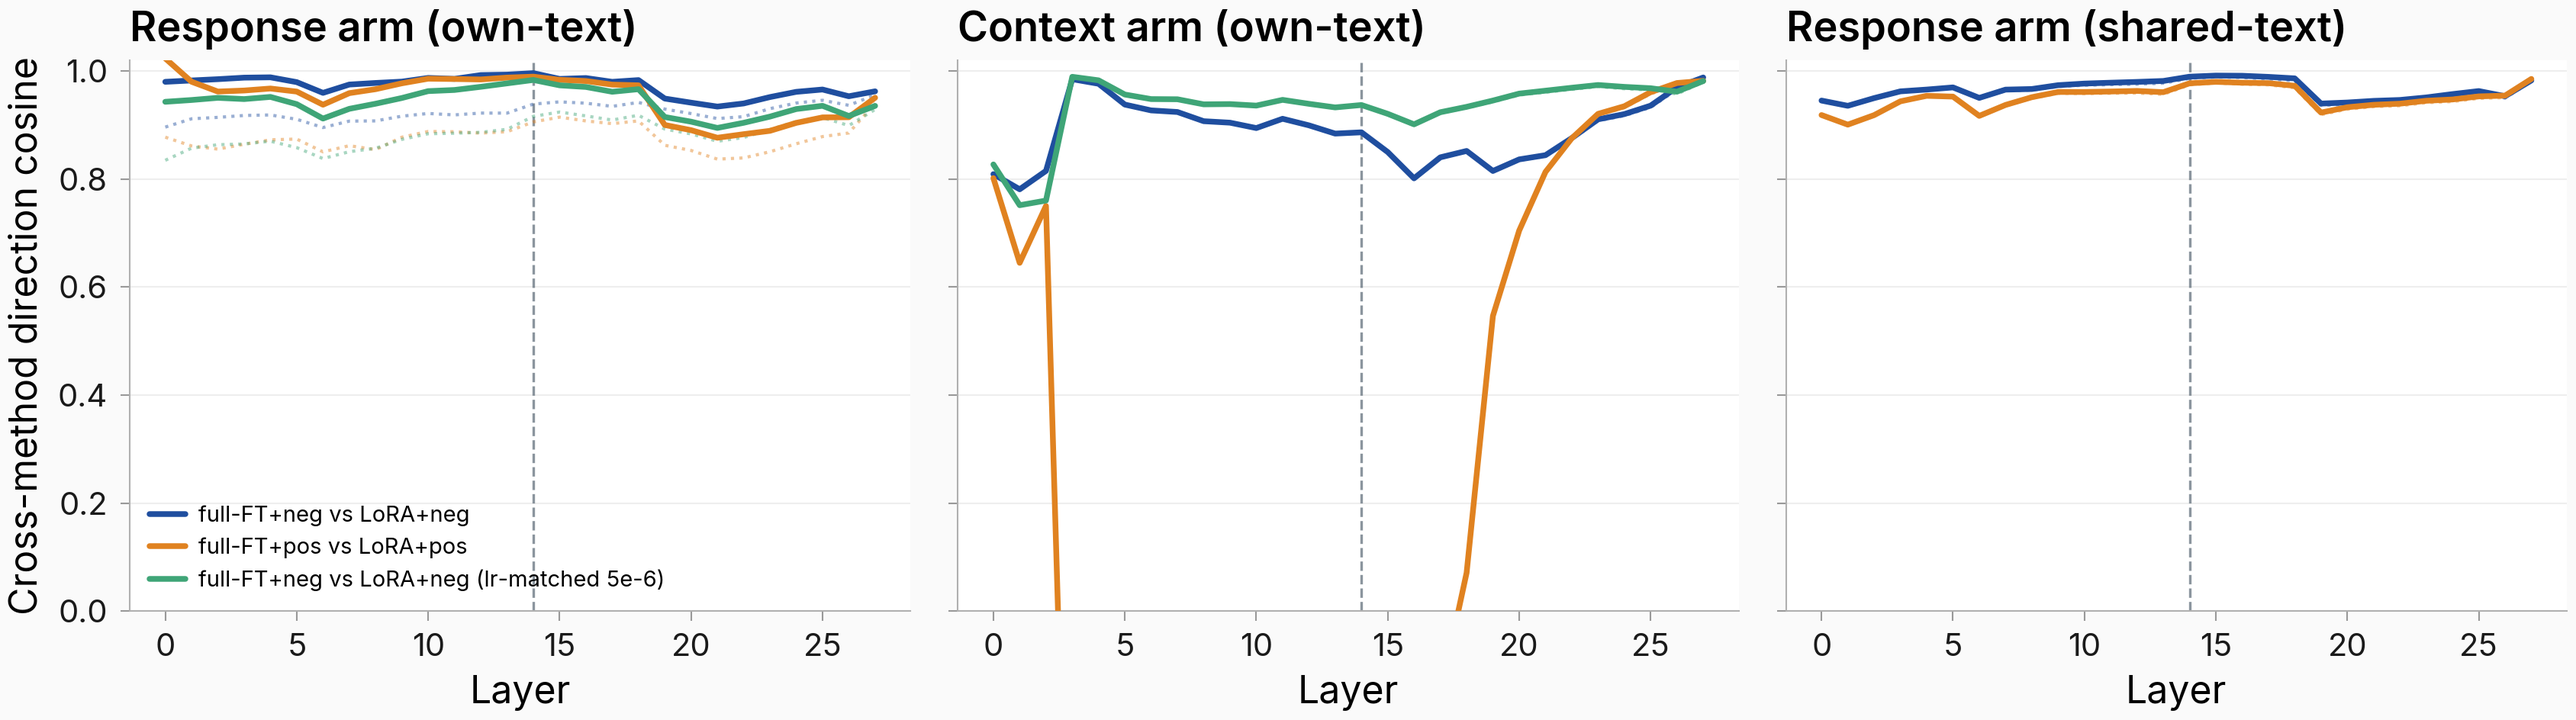
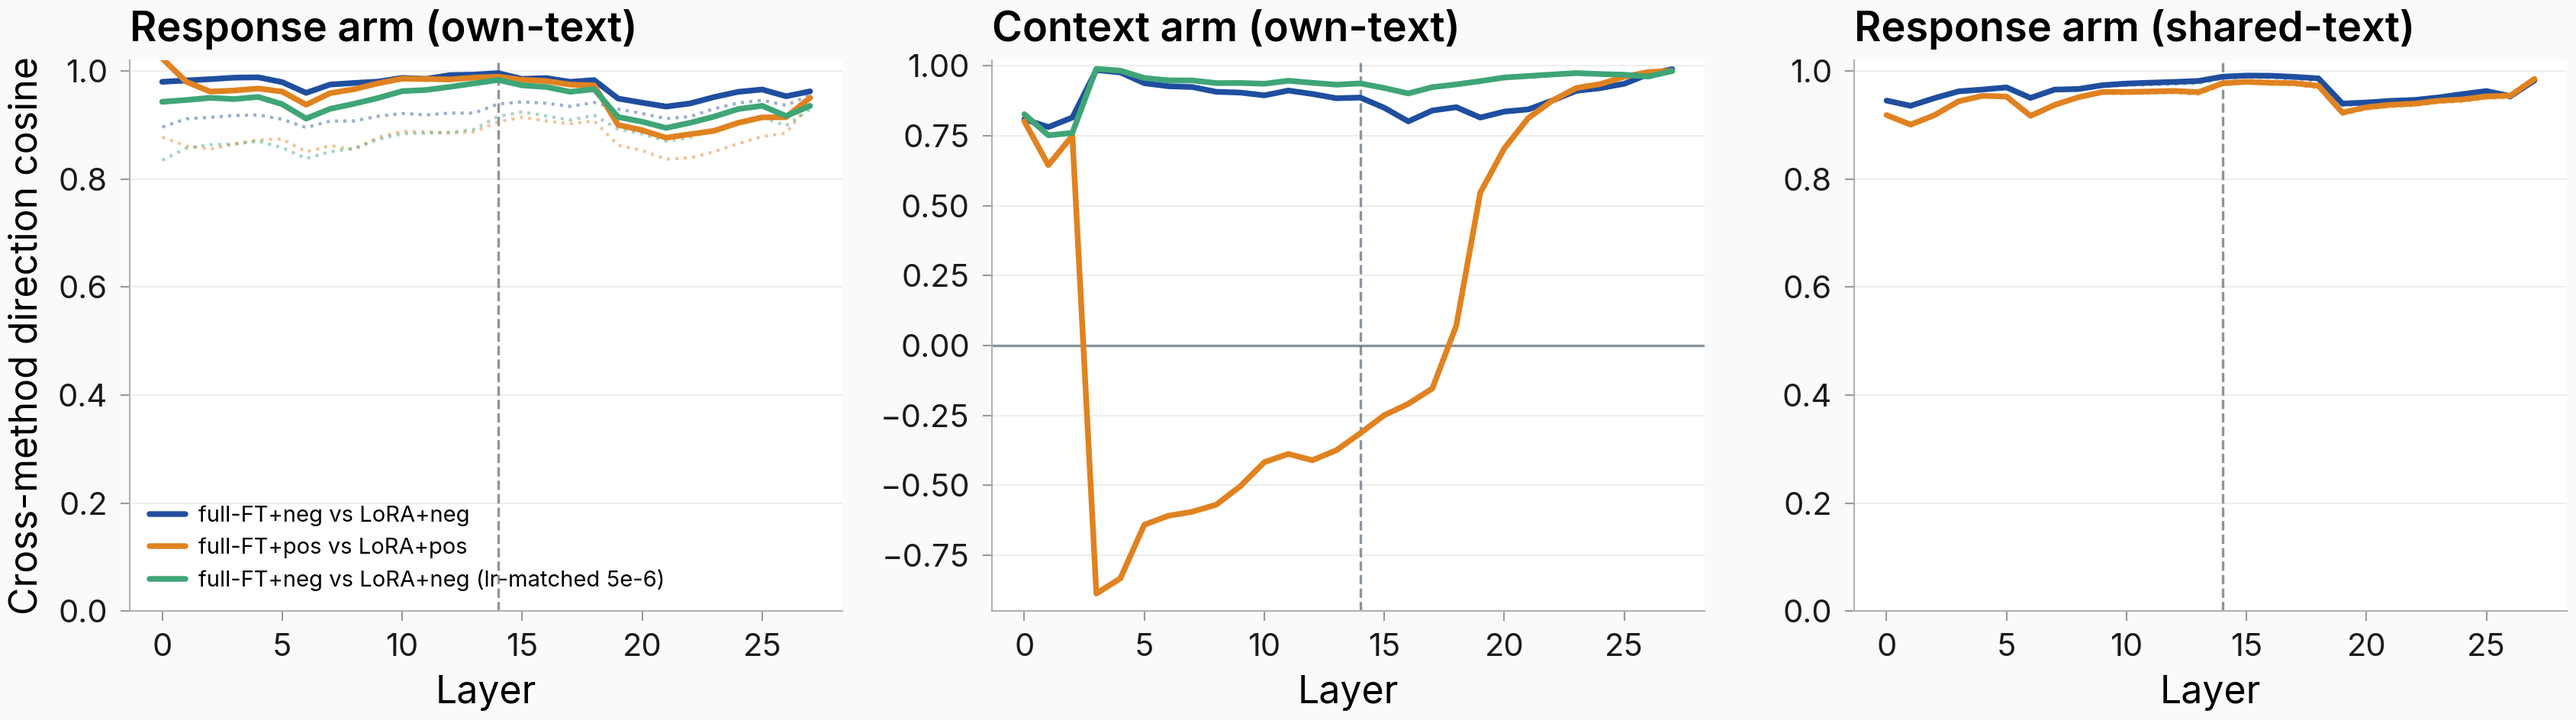
task #1112: extend cross-method figure context-panel y-axis to show anti-correlation
The context-arm panel clipped at y=0, hiding the full-FT+pos vs LoRA+pos
anti-correlation (−0.31 at L14, down to −0.89 at L3-9). Drop sharey, extend the
context panel to [−0.95, 1.02] with a zero reference line so the divergence is
visible; response/shared panels stay [0, 1.02]. Figure-only change (regenerated
from the existing cross_method_cosine.json; no data/analysis change).

diff --git a/scripts/issue1112_cross_method_cosine.py b/scripts/issue1112_cross_method_cosine.py
@@ -507,7 +507,11 @@ def make_figure(payload: dict, fig_path: Path) -> None:
         raw = [pl[str(li)]["summary"]["cross"]["mean"] for li in layers]
         return layers, corr, raw
 
-    fig, axes = plt.subplots(1, 3, figsize=(11.5, 3.4), sharey=True)
+    # No sharey: the context panel carries negative (anti-correlated) values —
+    # the positives-only pair reaches ~-0.31 at L14 and ~-0.89 at L3-9 — so it
+    # needs an extended y-range covering the data plus a zero reference line;
+    # the response/shared panels stay [0,1].
+    fig, axes = plt.subplots(1, 3, figsize=(11.5, 3.4))
     for ax, (arm, title) in zip(axes, panels, strict=True):
         for pair_key, (r, label) in role.items():
             s = _series(pair_key, arm)
@@ -518,9 +522,13 @@ def make_figure(payload: dict, fig_path: Path) -> None:
             ax.plot(layers, corr, color=color, lw=1.8, label=label, zorder=3)
             ax.plot(layers, raw, color=color, lw=1.0, ls=":", alpha=0.45, zorder=2)
         ax.axvline(reg, color=paper_palette_role("neutral"), lw=0.8, ls="--", alpha=0.7, zorder=1)
+        if arm == "context_own":
+            ax.axhline(0.0, color=paper_palette_role("neutral"), lw=0.8, alpha=0.7, zorder=1)
+            ax.set_ylim(-0.95, 1.02)
+        else:
+            ax.set_ylim(0.0, 1.02)
         ax.set_title(title)
         ax.set_xlabel("Layer")
-        ax.set_ylim(0.0, 1.02)
     axes[0].set_ylabel("Cross-method direction cosine")
     axes[0].legend(loc="lower left", fontsize=7, frameon=False)
     fig.tight_layout()
